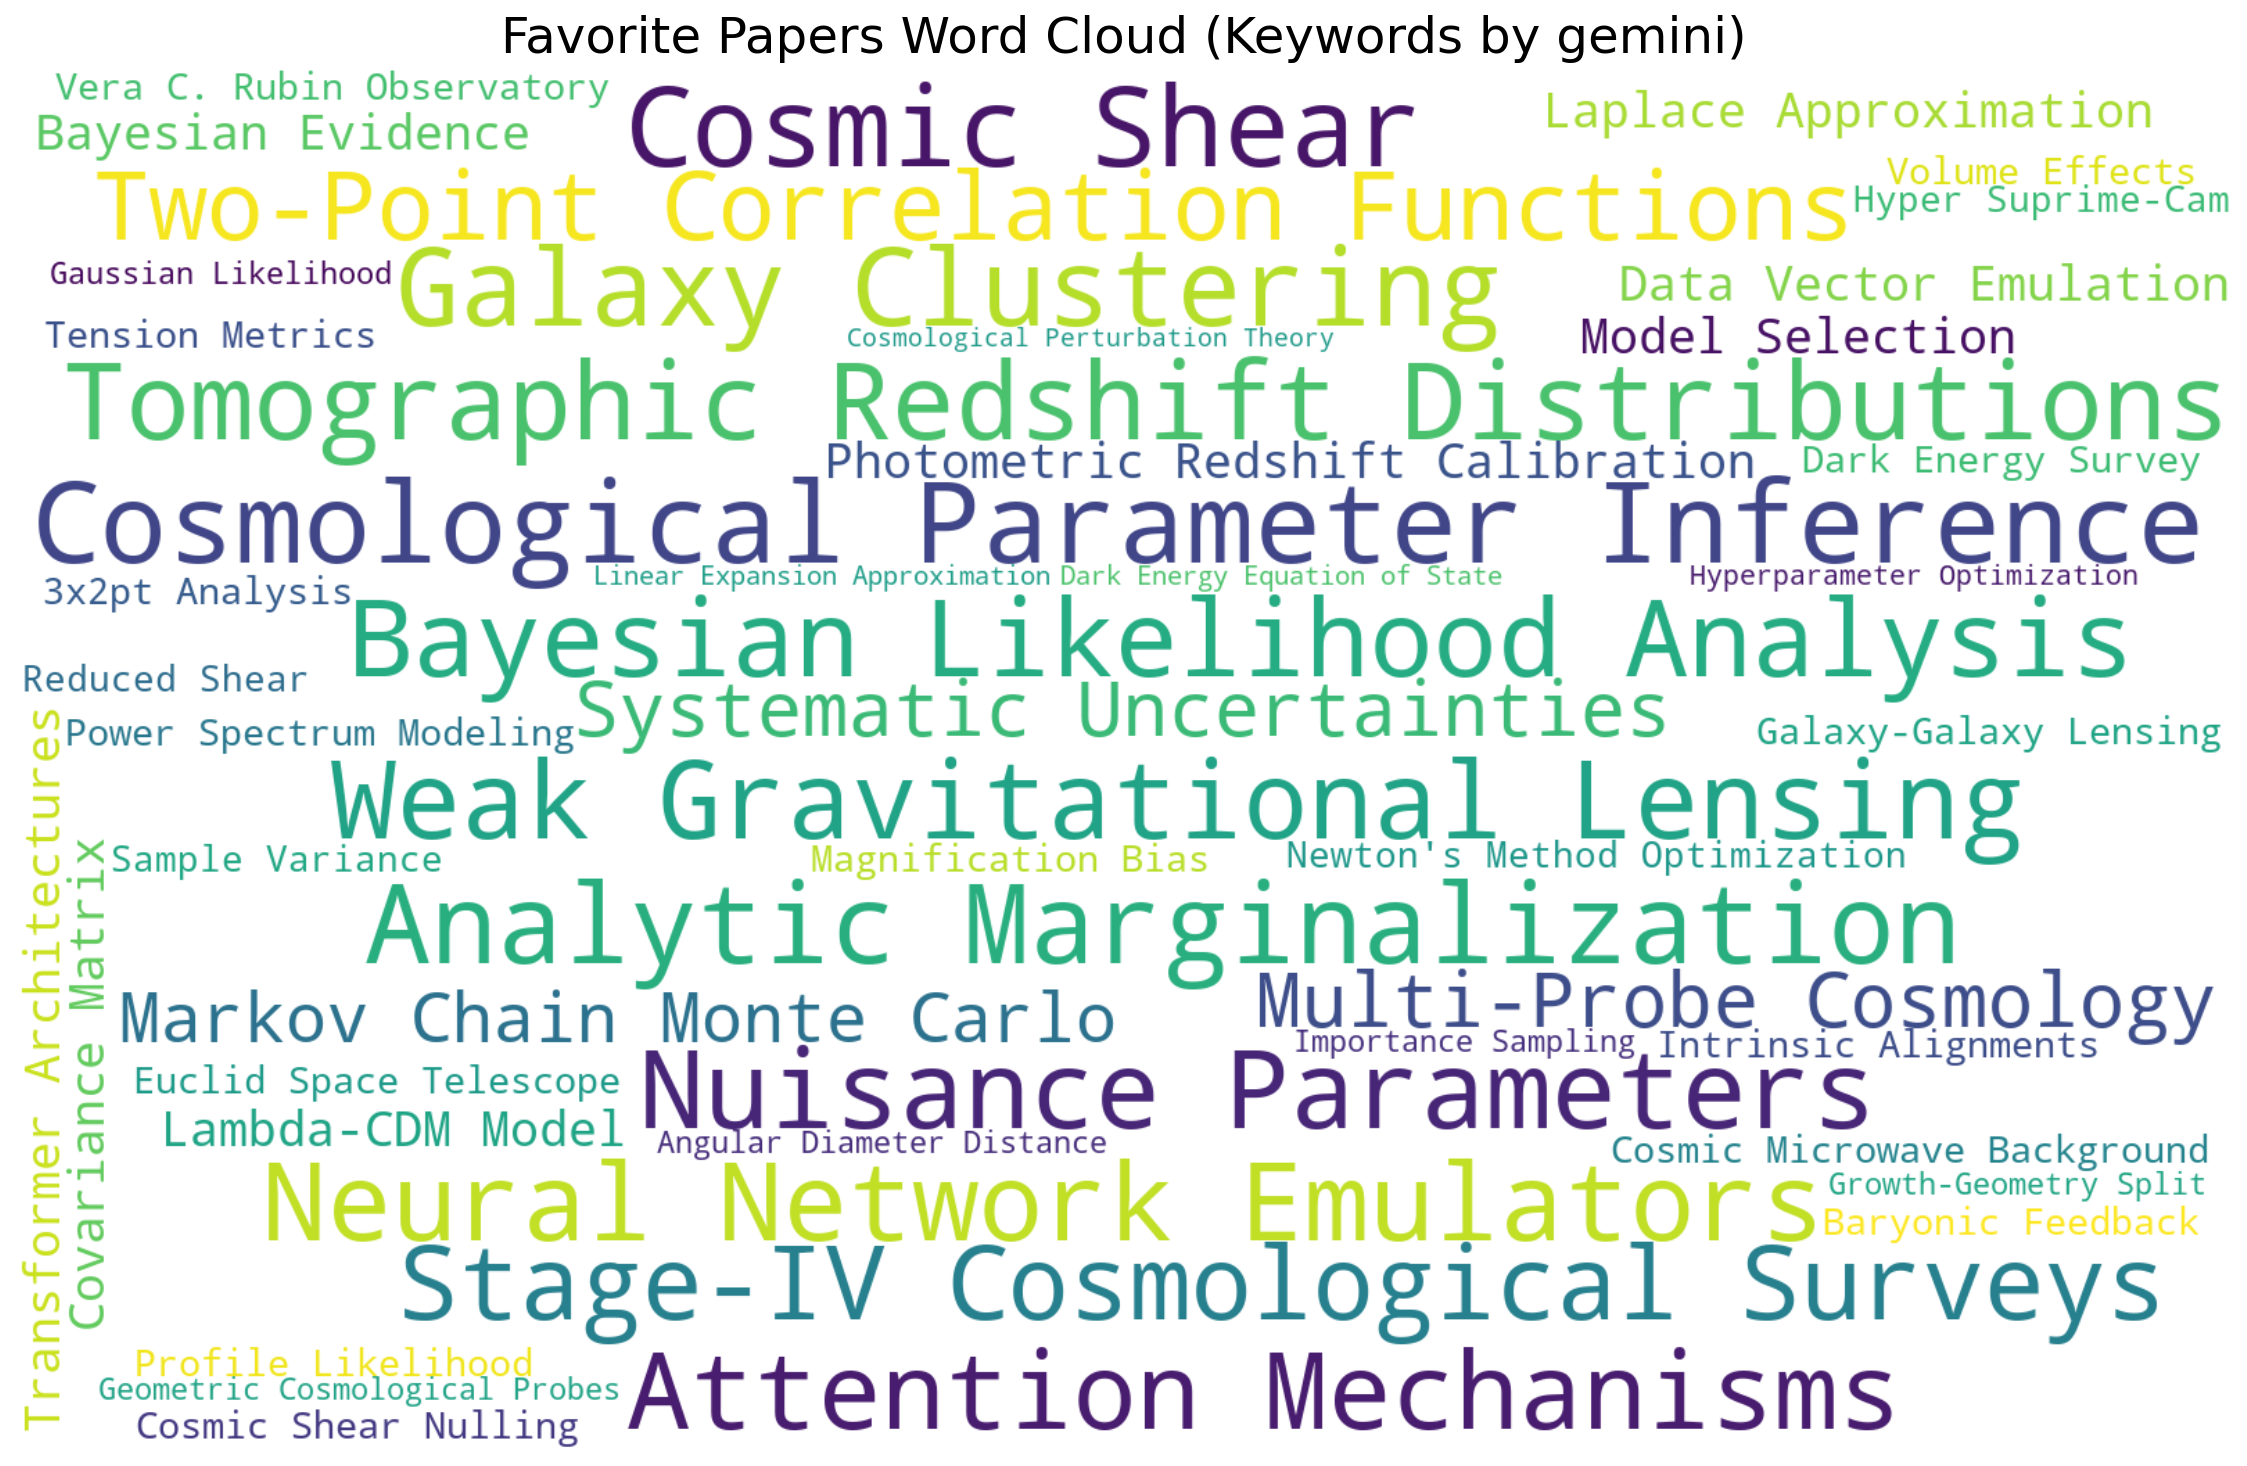
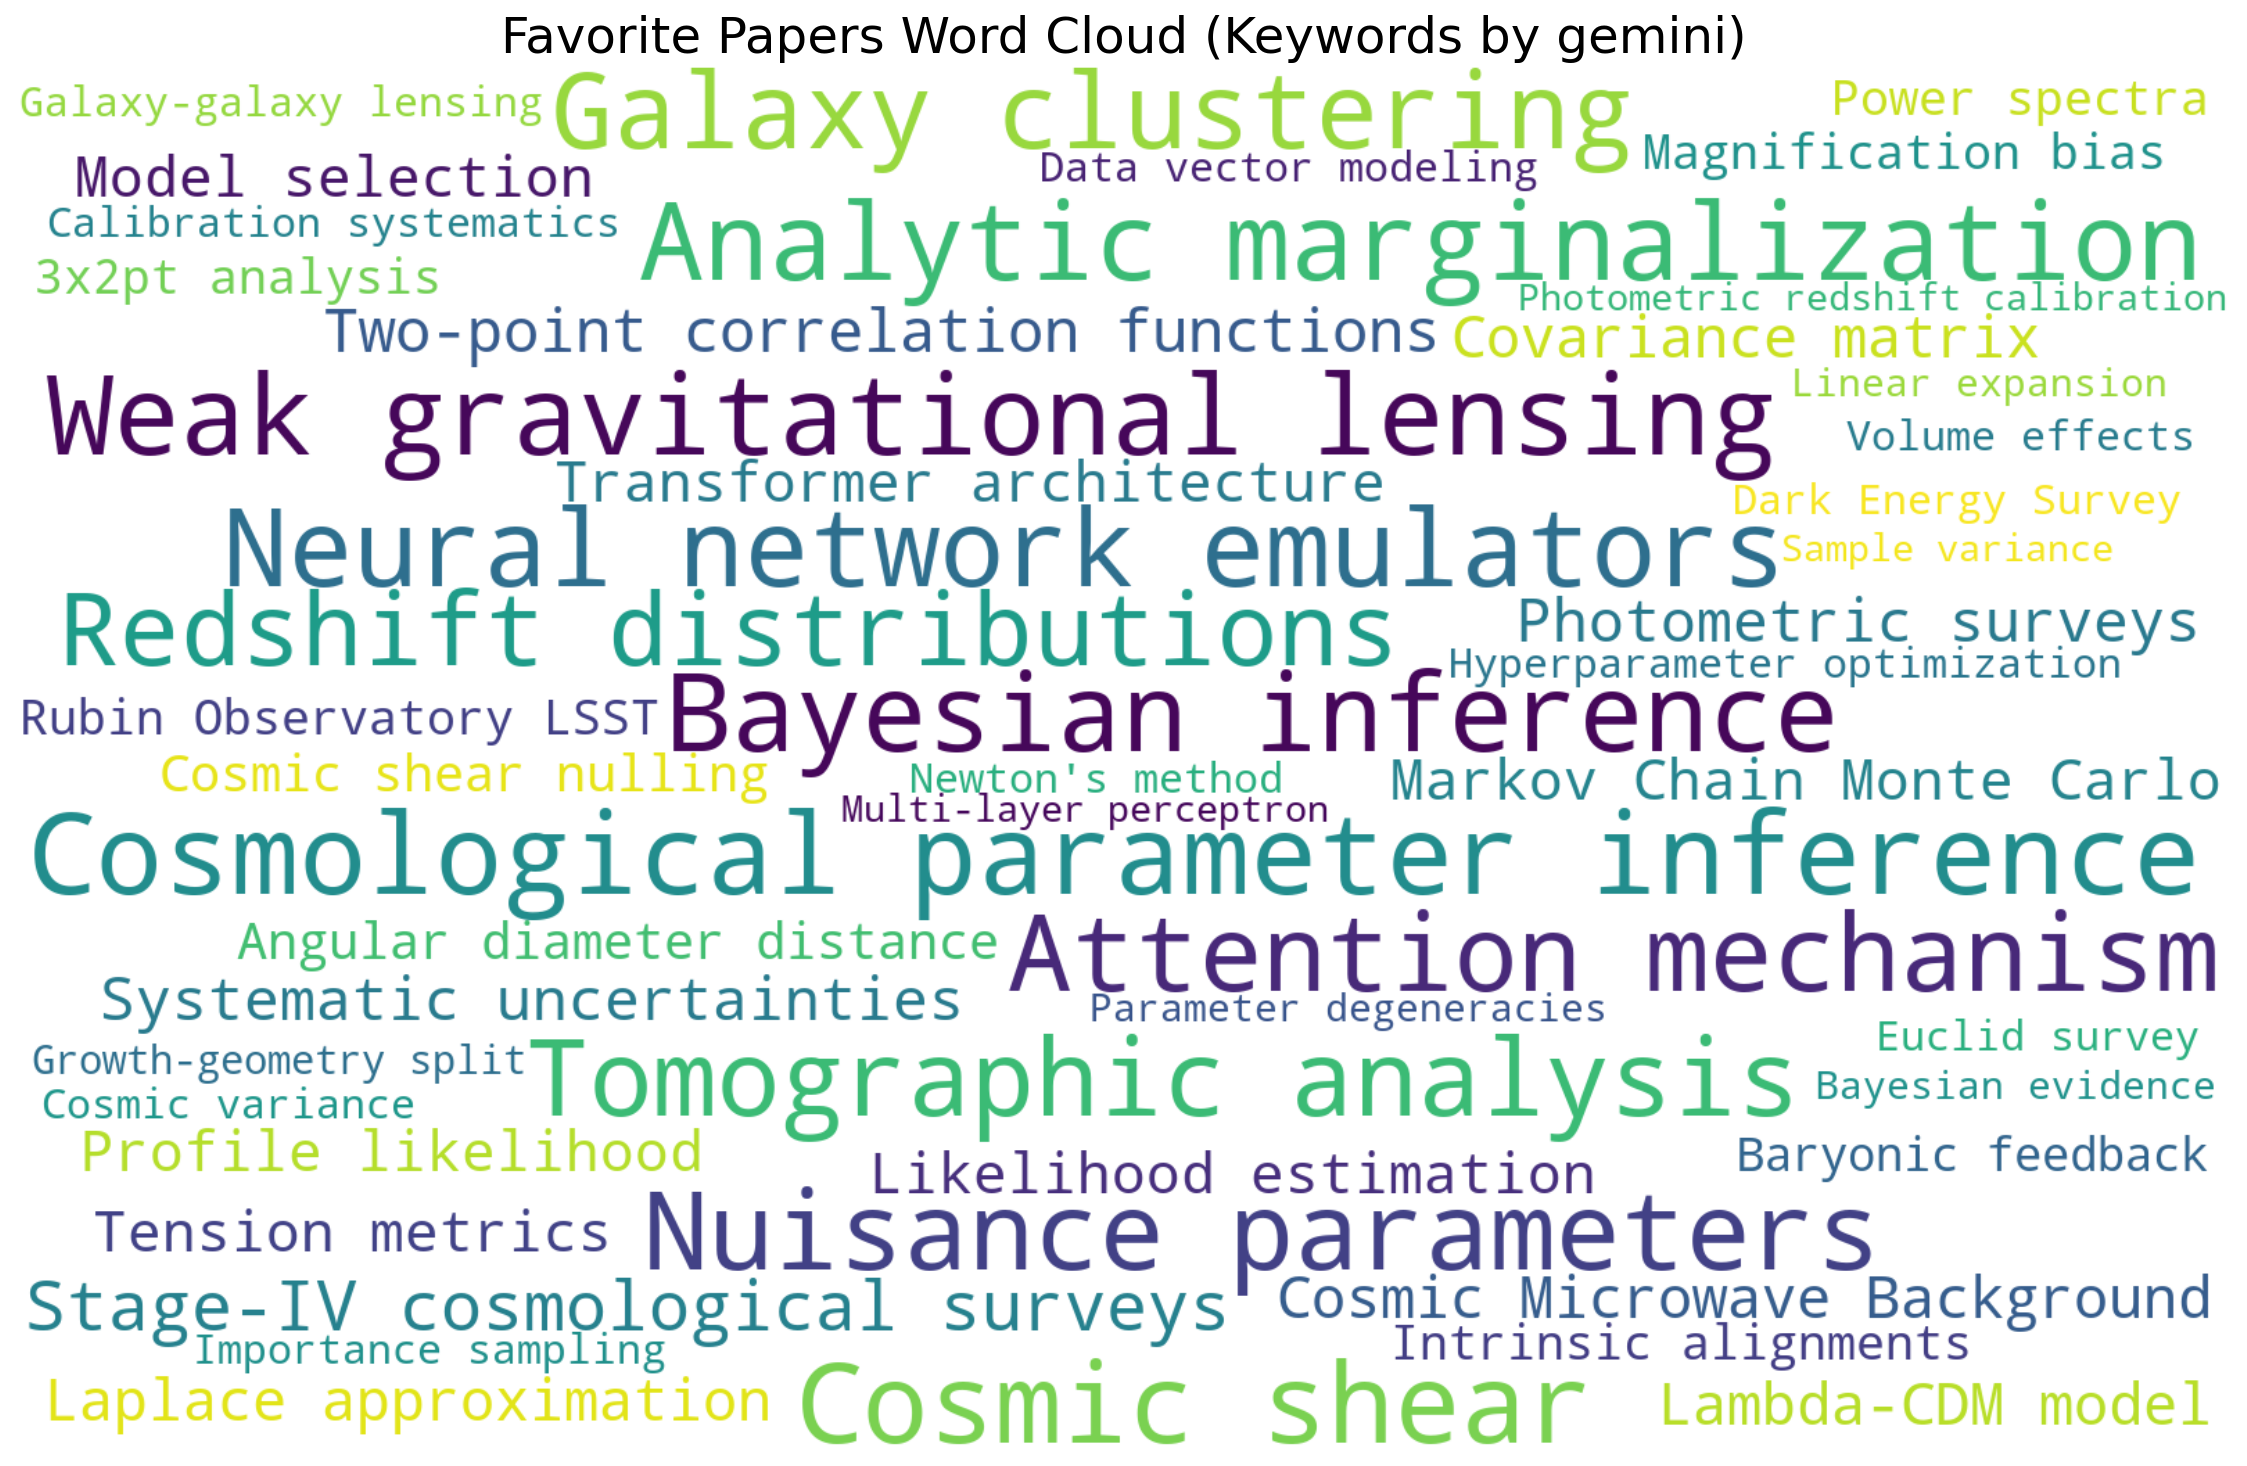
deploy: 2d48c7ecd240292396ffa2fb52759ba88614fb8d

diff --git a/arxiv_history/weekly_20261025.html b/arxiv_history/weekly_20261025.html
@@ -1,0 +1,111 @@
+<!DOCTYPE html>
+<html lang="en">
+<head>
+    <meta charset="UTF-8">
+    <meta name="viewport" content="width=device-width, initial-scale=1">
+    <title>arXiv Daily: Backfill (2026-10-18 to 2026-10-25)</title>
+    <link href="https://cdn.jsdelivr.net/npm/bootstrap@5.3.0/dist/css/bootstrap.min.css" rel="stylesheet">
+    <link href="https://fonts.googleapis.com/css?family=Roboto:400,700&display=swap" rel="stylesheet">
+    <style>
+        body { font-family: 'Roboto', Arial, sans-serif; background: #f8f9fa; transition: background 0.3s; }
+        .arxiv-card { margin: 2em auto; max-width: 900px; box-shadow: 0 2px 8px rgba(0,0,0,0.08); border-radius: 16px; transition: box-shadow 0.3s, transform 0.3s; }
+        .arxiv-card:hover { box-shadow: 0 4px 12px rgba(0,0,0,0.1); transform: translateY(-1px); }
+        .arxiv-title { background: linear-gradient(90deg, #0d6efd 60%, #6610f2 100%); color: #fff; border-radius: 16px 16px 0 0; padding: 1.5em; font-size: 1.5em; font-weight: 700; letter-spacing: 0.5px;}
+        .arxiv-meta { font-size: 1em; color: #555; margin-bottom: 1em; }
+        .arxiv-abstract { background: #fff; padding: 1.5em; border-radius: 0 0 16px 16px; font-size: 1.1em; line-height: 1.7;}
+        .arxiv-links a { margin-right: 1em; }
+        .arxiv-scores { margin-top: 1em; font-size: 1em; }
+        .navbar { background: #fff; box-shadow: 0 2px 8px rgba(0,0,0,0.04);}
+        .footer { text-align: center; color: #888; padding: 2em 0 1em 0; font-size: 0.95em;}
+        @media (prefers-color-scheme: dark) {
+            body { background: #181a1b; color: #e4e6eb; }
+            .arxiv-card { background: #23272b; box-shadow: 0 2px 8px rgba(0,0,0,0.28);}
+            .arxiv-card:hover { box-shadow: 0 5px 15px rgba(0,0,0,0.25); transform: translateY(-1px); }
+            .arxiv-title { background: linear-gradient(90deg, #375a7f 60%, #6f42c1 100%);}
+            .arxiv-abstract { background: #23272b; color: #e4e6eb;}
+            .navbar { background: #23272b; color: #e4e6eb;}
+            .text-muted { color: #adb5bd !important; }
+        }
+        /* Improved abstract readability */
+        .arxiv-abstract-text {
+            font-size: 1.1em;
+            line-height: 1.7;
+        }
+        p.big {
+            line-height: 1.6;
+            font-size: large;
+        }
+    </style>
+    <script type="text/x-mathjax-config">
+      MathJax.Hub.Config({
+        tex2jax: {
+          inlineMath: [ ['$','$'] ],
+          processEscapes: true
+        }
+      });
+    </script>
+    <script>
+    function toggleAuthors(element) {
+        const fullList = element.querySelector('.author-full');
+        const shortList = element.querySelector('.author-short');
+        const toggleText = element.querySelector('.author-toggle');
+        
+        fullList.style.display = fullList.style.display === 'none' ? 'inline' : 'none';
+        shortList.style.display = shortList.style.display === 'none' ? 'inline' : 'none';
+        toggleText.textContent = fullList.style.display === 'none' ? ' (show all)' : ' (show less)';
+    }
+    </script>
+    <script type="text/javascript" src="https://cdn.mathjax.org/mathjax/latest/MathJax.js?config=TeX-AMS-MML_HTMLorMML">
+    </script>
+</head>
+<body>
+    <nav class="navbar navbar-expand-lg mb-4">
+        <div class="container">
+            <a class="navbar-brand fw-bold text-primary" href="#">arXiv Daily</a>
+            <span class="navbar-text">Modern arXiv Reader</span>
+        </div>
+    </nav>
+
+    
+    <div class="container py-4">
+        <header class="mb-4"><h2 class="display-6 text-center">Analysis of Your Favorites</h2></header>
+        
+        <div class="row justify-content-center">
+            <div class="col-lg-8 mb-4">
+                <div class="card">
+                    <div class="card-header fw-bold">Interest Word Cloud</div>
+                    <div class="card-body text-center p-2">
+                        <img src="analysis_results/word_cloud.png" class="img-fluid rounded" alt="Word Cloud of favorite paper topics">
+                    </div>
+                </div>
+            </div>
+        </div>
+        
+        
+        <div class="row justify-content-center">
+            <div class="col-lg-8 mb-4">
+                <div class="card">
+                    <div class="card-header fw-bold">Interest Clusters</div>
+                    <div class="card-body text-center p-2">
+                        <img src="analysis_results/cluster_visualization.png" class="img-fluid rounded" alt="2D Cluster plot of favorite papers">
+                    </div>
+                </div>
+            </div>
+        </div>
+        
+    </div>
+    
+
+    <div class="container py-4">
+        <header class="mb-4"><h1 class="display-5 text-center text-primary">arXiv: Backfill (2026-10-18 to 2026-10-25)</h1></header>
+
+        
+
+        
+    </div>
+
+    <footer class="footer">
+        &copy; 2026 arXiv Daily · Powered by <a href="https://arxiv.org/" target="_blank">arXiv</a>
+    </footer>
+</body>
+</html>

diff --git a/index.html b/index.html
@@ -3,7 +3,7 @@
 <head>
     <meta charset="UTF-8">
     <meta name="viewport" content="width=device-width, initial-scale=1">
-    <title>arXiv Daily: 2026-10-24</title>
+    <title>arXiv Daily: Backfill (2026-10-18 to 2026-10-25)</title>
     <link href="https://cdn.jsdelivr.net/npm/bootstrap@5.3.0/dist/css/bootstrap.min.css" rel="stylesheet">
     <link href="https://fonts.googleapis.com/css?family=Roboto:400,700&display=swap" rel="stylesheet">
     <style>
@@ -97,7 +97,7 @@
     
 
     <div class="container py-4">
-        <header class="mb-4"><h1 class="display-5 text-center text-primary">arXiv: 2026-10-24</h1></header>
+        <header class="mb-4"><h1 class="display-5 text-center text-primary">arXiv: Backfill (2026-10-18 to 2026-10-25)</h1></header>
 
         
 
